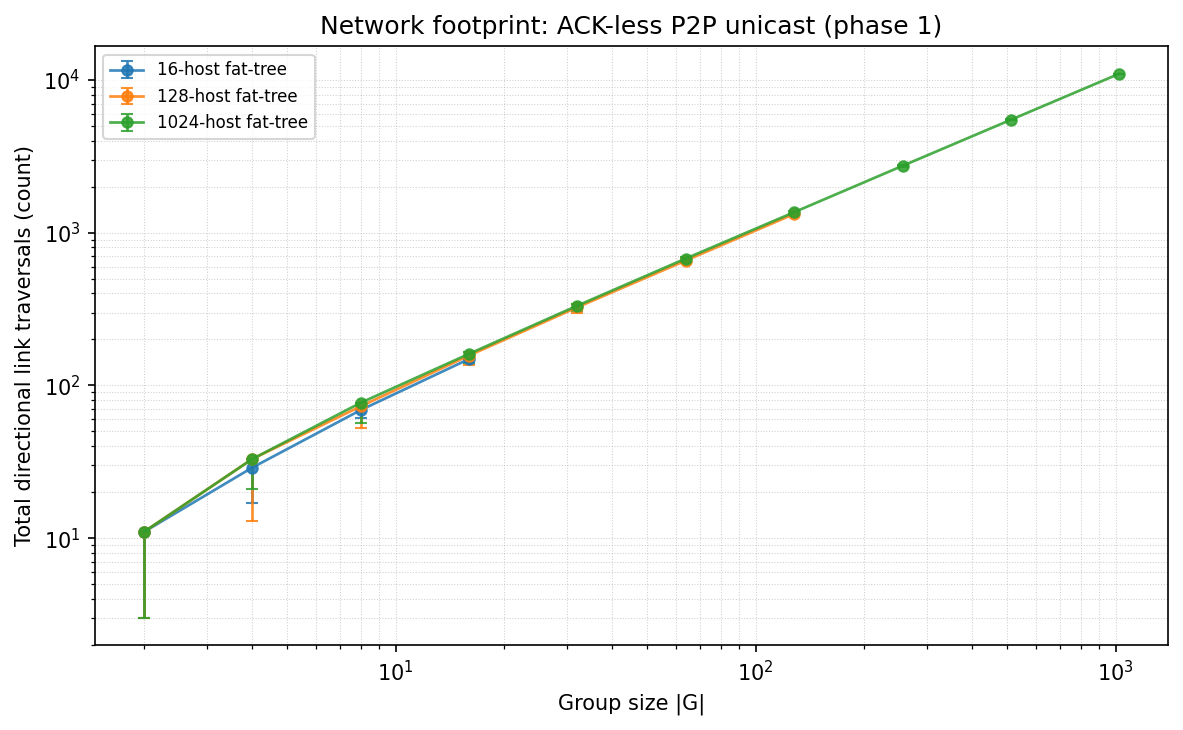
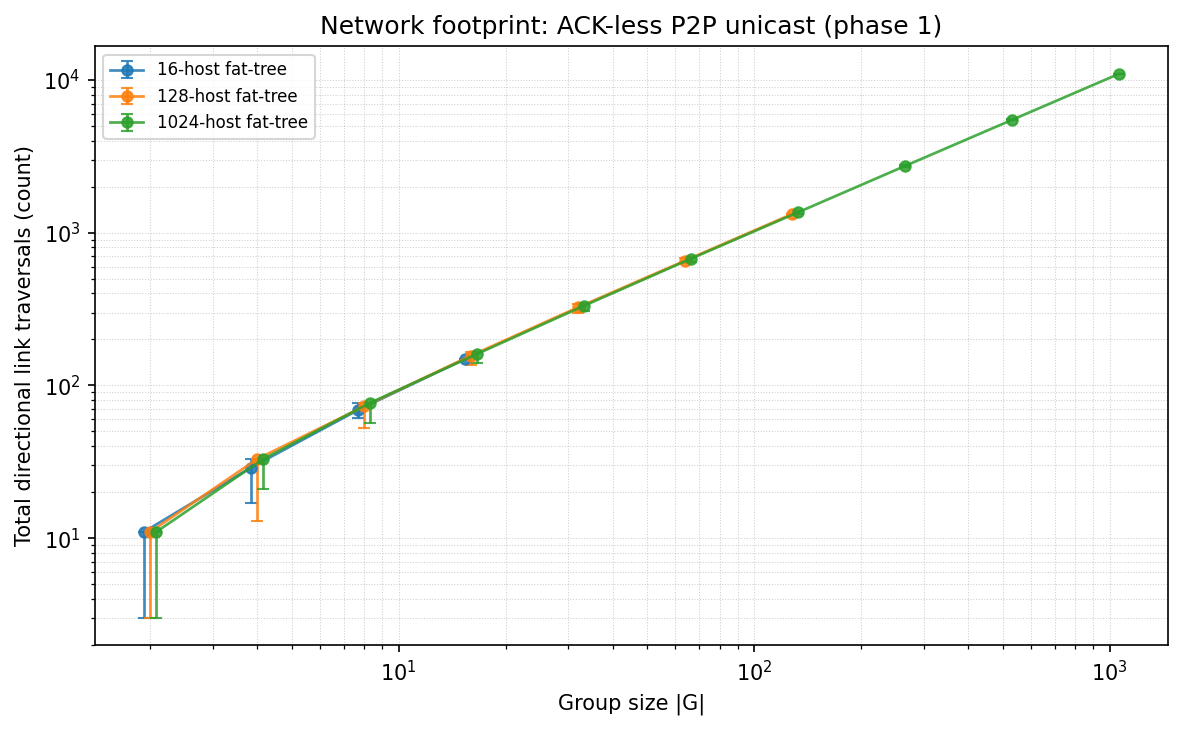
plots: per-topology x-offset in footprint plot so overlapping error bars show
At |G|=2 all three topologies yield identical min/med/max (3/11/11), so
their error bars stacked and only the last-drawn (1024) was visible.
Add the same multiplicative x-offset plot_bcast_baseline.py uses.

diff --git a/sim/htsim-backend/plotting/plot_link_crosses.py b/sim/htsim-backend/plotting/plot_link_crosses.py
@@ -59,10 +59,24 @@ def main():
     p.add_argument(
         "--mmm",
         action="store_true",
-        help="Render min/max as a translucent band per series with "
-             "the median as a solid line on top, instead of a bare "
-             "median line. Use for standalone per-phase figures where "
-             "the footprint genuinely varies with the group layout.",
+        help="Render min/max as error bars (median marker with a "
+             "min/max whisker) per series, instead of a bare median "
+             "line. Use for standalone per-phase figures where the "
+             "footprint genuinely varies with the group layout.",
+    )
+    p.add_argument(
+        "--offset-topologies",
+        action="store_true",
+        default=True,
+        help="Apply a tiny multiplicative x-offset per topology so "
+             "that error bars sharing identical min/median/max (e.g. "
+             "at |G|=2) don't stack and occlude each other (default: "
+             "on).",
+    )
+    p.add_argument(
+        "--no-offset-topologies",
+        action="store_false",
+        dest="offset_topologies",
     )
     args = p.parse_args()
 
@@ -91,8 +105,24 @@ def main():
     for k in by_topo:
         by_topo[k].sort(key=lambda t: t[0])
 
+    # Spread the topologies apart by a tiny multiplicative x-offset so
+    # that when several share identical min/median/max (e.g. at
+    # |G|=2, where every topology yields 3/11/11) their error bars do
+    # not stack and occlude one another. Pure cosmetics on the log-x
+    # axis; the offset is a few percent, well below the gap between
+    # adjacent group sizes. Matches plot_bcast_baseline.py.
+    topos = sorted({nodes for nodes, _ in by_topo})
+    n_topos = len(topos)
+    offsets = {}
+    if args.offset_topologies and n_topos > 1:
+        for i, nodes in enumerate(topos):
+            offsets[nodes] = 1.0 + 0.04 * (i - (n_topos - 1) / 2)
+    else:
+        for nodes in topos:
+            offsets[nodes] = 1.0
+
     for (nodes, mode), series in sorted(by_topo.items()):
-        xs = [g for g, _ in series]
+        xs = [g * offsets[nodes] for g, _ in series]
         medians = [sorted(d)[len(d) // 2] for _, d in series]
         ls = mode_style.get(mode, "-")
         suffix = "" if mode == "baseline" else " [mcast]"
